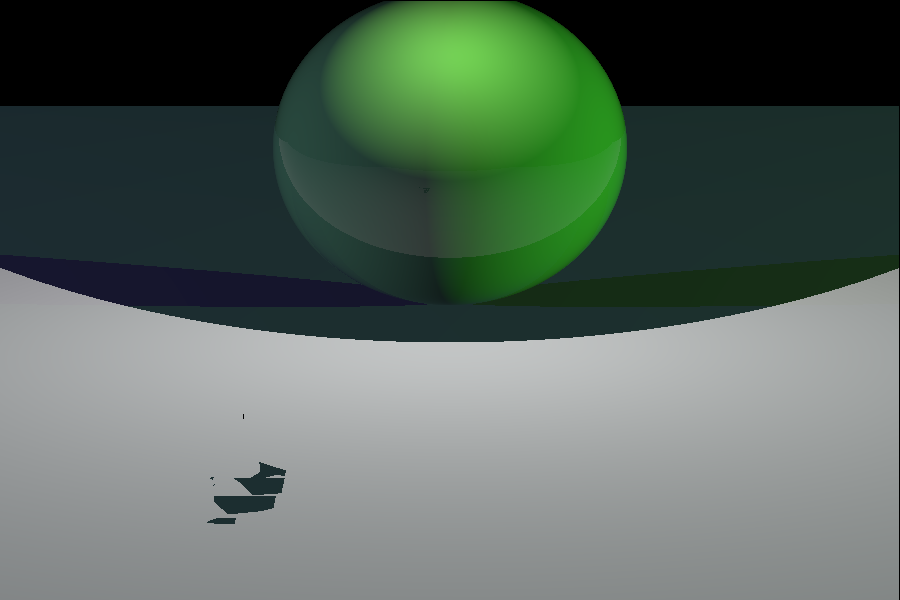
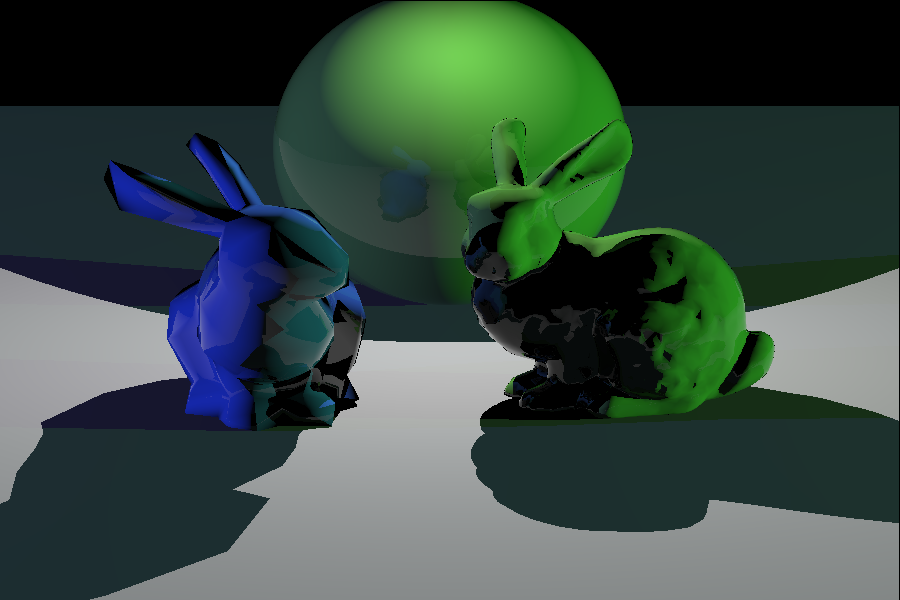
stuff

diff --git a/ray/Texture.java b/ray/Texture.java
@@ -1,0 +1,99 @@
+package ray;
+
+import java.awt.image.BufferedImage;
+import java.io.File;
+import java.io.IOException;
+import java.nio.*;
+
+import javax.imageio.ImageIO;
+import javax.vecmath.Color3f;
+import javax.vecmath.Vector2f;
+
+/**
+ * This class holds all of the information necessary to describe texture data.
+ * 
+ * @author ags
+ */
+public class Texture {
+
+    /** The name of the file from where the data was loaded */
+    protected String filename;
+
+    /** The width of the texture. */
+    public int nx;
+
+    /** The height of the texture. */
+    public int ny;
+
+    /** The RGB data for each pixel. */
+    private byte[] cData;
+
+    public Buffer cBuf;
+
+    /**
+     * Reads in a texture from the given file and stores the data. The image file
+     * given must be stored in a format recognizable by javax.imageio.ImageIO.
+     * 
+     * @param imageFile The file where the texture is stored.
+     */
+    public Texture(File imageFile) {
+
+        try {
+            BufferedImage loadedImage = ImageIO.read(imageFile);
+
+            nx = loadedImage.getWidth();
+            ny = loadedImage.getHeight();
+            cData = new byte[nx * ny * 3];
+
+            System.out.print("loading " + nx + " x " + ny + " texture...");
+            filename = imageFile.getName();
+
+            int offset = 0;
+            for (int iy = 0; iy < ny; iy++) {
+                for (int ix = 0; ix < nx; ix++) {
+                    int pixelValue = loadedImage.getRGB(ix, ny - 1 - iy);
+
+                    cData[offset + 0] = (byte) (0xff & (pixelValue >> 16));
+                    cData[offset + 1] = (byte) (0xff & (pixelValue >> 8));
+                    cData[offset + 2] = (byte) (0xff & (pixelValue >> 0));
+
+                    offset += 3;
+                }
+            }
+            cBuf = ByteBuffer.wrap(cData);
+
+            System.out.println("done.");
+        }
+        catch (IOException e) {
+            throw new RuntimeException(e);
+        }
+    }
+
+    /**
+     * Samples this texture for a given 2D location. Places the result in the
+     * color parameter.
+     * 
+     * @param p The 2D texture coordinate.
+     * @param cOut The result of sampling the texture.
+     */
+    public void sample(Vector2f p, Color3f cOut) {
+
+        int ix = (int) (p.x * nx + 0.5);
+        int iy = (int) (p.y * ny + 0.5);
+
+        ix = Math.min(Math.max(ix, 0), nx - 1);
+        iy = Math.min(Math.max(iy, 0), ny - 1);
+
+        int offset = 3 * (nx * iy + ix);
+        cOut.set((cData[offset + 0] & 0xff) / 255.0f, (cData[offset + 1] & 0xff) / 255.0f, (cData[offset + 2] & 0xff) / 255.0f);
+    }
+
+    /**
+     * @see java.lang.Object#toString()
+     */
+    public String toString() {
+
+        return filename;
+    }
+
+}

diff --git a/ray/surface/Mesh.java b/ray/surface/Mesh.java
@@ -1,11 +1,13 @@
 package ray.surface;
 
 import java.io.BufferedReader;
+import java.io.File;
 import java.io.FileReader;
 import java.util.ArrayList;
 import ray.IntersectionRecord;
 import ray.Ray;
 import ray.RayTracer;
+import ray.Texture;
 import ray.math.Point2;
 import ray.math.Point3;
 import ray.math.Vector3;
@@ -25,6 +27,7 @@ public class Mesh extends Surface{
     protected float[] verts;
     protected float[] texcoords;
   
+    protected Texture texture;
     /**
      * Default constructor creates an empty mesh
      */
@@ -107,7 +110,9 @@ public class Mesh extends Surface{
     public void setData(String fileName) {
 
         readMesh(this, RayTracer.getTestFolderPath() + fileName);
-
+        if(File.exists(RayTracer.getTestFolderPath()+fileName)) {
+        	
+        }
     }
 
   
